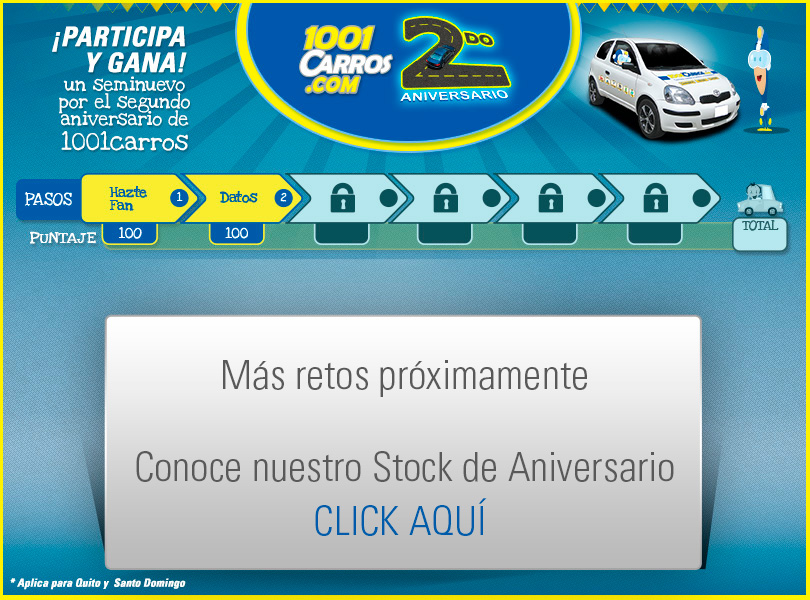
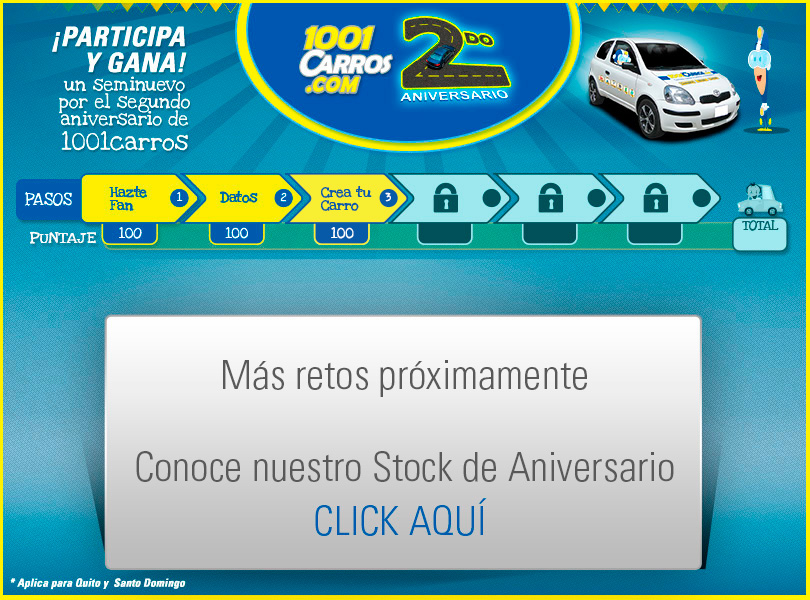
paso3 hecho
ase

diff --git a/armacarro.php b/armacarro.php
@@ -1,0 +1,86 @@
+<?php
+
+echo '
+<div style="width:810px; height:600px; background:url(bg-carro-sube.jpg) no-repeat top center">
+	<div class="puntos">'.$puntos.'</div>
+		  <form action="enviaform2.php" method="post">
+		  	<input name="fbid" type="text" id="fbid" style="display:none" title="fbid" value="'.$fbid.'">
+			<div style="position:absolute; top:367px; left:270px">
+            	<div>Amigos</div>
+              <table>
+            	<tr>
+                	<td>	  
+                      
+                        <input name="am10" type="text" class="input2"  id="am10" placeholder="Nombre" required>
+                      
+              		</td>
+                    <td>
+                      
+                        <input name="am11" type="text" class="input2"  id="am11" placeholder="Apellido" required>
+                      
+                  	</td>
+                    <td>
+                      
+                        <input name="am12" type="text" class="input2"  id="am12" placeholder="Celular" required>
+                      
+              		</td>
+                 </tr>
+                 <tr>
+                	<td>	  
+                      
+                        <input name="am20" type="text" class="input2"  id="am20" placeholder="Nombre" required>
+                      
+              		</td>
+                    <td>
+                      
+                        <input name="am21" type="text" class="input2"  id="am21" placeholder="Apellido" required>
+                      
+                  	</td>
+                    <td>
+                      
+                        <input name="am22" type="text" class="input2"  id="am22" placeholder="Celular" required>
+                      
+              		</td>
+                 </tr>
+                 <tr>
+                	<td>	  
+                      
+                        <input name="am30" type="text" class="input2"  id="am30" placeholder="Nombre" required>
+                      
+              		</td>
+                    <td>
+                      
+                        <input name="am31" type="text" class="input2"  id="am31" placeholder="Apellido" required>
+                      
+                  	</td>
+                    <td>
+                      
+                        <input name="am32" type="text" class="input2"  id="am32" placeholder="Celular" required>
+                      
+              		</td>
+                 </tr>
+                 <tr>
+                	<td>	  
+                      
+                        <input name="am40" type="text" class="input2"  id="am40" placeholder="Nombre" required>
+                      
+              		</td>
+                    <td>
+                      
+                        <input name="am41" type="text" class="input2"  id="am41" placeholder="Apellido" required>
+                      
+                  	</td>
+                    <td>
+                      
+                        <input name="am42" type="text" class="input2"  id="am42" placeholder="Celular" required>
+                      
+              		</td>
+                 </tr>
+              </table>
+			</div>
+			<div style="position:absolute; top:540px; left:680px">
+			  <input name="Enviar" type="submit" id="Enviar" title="Enviar" value="Enviar">
+			</div>
+		  </form>
+		</div>';
+?>

diff --git a/index.php b/index.php
@@ -83,6 +83,14 @@ if ($user) {
 	border-radius: 5px;
 	height: 30px;
 	}
+	.input2 {
+		background: none;
+		border: 1px solid #999;
+		width: 110px;
+		border-radius: 5px;
+		height: 30px;
+		margin: 2px 0px;
+	}
 	label {
 		font-family: "Gill Sans", "Gill Sans MT", "Myriad Pro", "DejaVu Sans Condensed", Helvetica, Arial, sans-serif;
 		color: #4b4b4b;
@@ -230,13 +238,19 @@ if ($user) {
 	}	
 	
 	if($aprobados == 2){
+		include "armacarro.php";
+	}
+	
+	if($aprobados == 3){
 		echo '<a href="http://www.1001carros.com/index.php/catalogsearch/advanced/result/?marca[]=todos&marca[]=62&marca[]=61&marca[]=60&marca[]=55&marca[]=53&marca[]=87&marca[]=88&marca[]=92&marca[]=93&marca[]=3562&marca[]=98&marca[]=100&marca[]=101&marca[]=104&marca[]=105&marca[]=106&marca[]=77&marca[]=78&marca[]=81&marca[]=83&marca[]=85&marca[]=86&marca[]=72&marca[]=75&year_rango1[]=&year_rango2[]=" target="_top"><div style="width:810px; height:600px; background:url(proximo.jpg) no-repeat top center">
 				<div class="puntos">'.$puntos.'</div>
 				</div></a>';
 	}
 	
-	if($aprobados == 3){
-		echo 'cuarto reto';	
+	if($aprobados == 4){
+		echo '<a href="http://www.1001carros.com/index.php/catalogsearch/advanced/result/?marca[]=todos&marca[]=62&marca[]=61&marca[]=60&marca[]=55&marca[]=53&marca[]=87&marca[]=88&marca[]=92&marca[]=93&marca[]=3562&marca[]=98&marca[]=100&marca[]=101&marca[]=104&marca[]=105&marca[]=106&marca[]=77&marca[]=78&marca[]=81&marca[]=83&marca[]=85&marca[]=86&marca[]=72&marca[]=75&year_rango1[]=&year_rango2[]=" target="_top"><div style="width:810px; height:600px; background:url(proximo.jpg) no-repeat top center">
+				<div class="puntos">'.$puntos.'</div>
+				</div></a>';
 	}
 	
 	?>

diff --git a/enviaform2.php b/enviaform2.php
@@ -1,0 +1,45 @@
+<?php
+	$databasehost = "localhost";
+	$databasename = "eadvert1_1001aniversario";
+	$databaseusername ="eadvert1_1001ani";
+	$databasepassword = "Milunani2014!";
+	
+	$fbid = $_POST['fbid'];
+	$amn1 = $_POST['am10'];
+	$ama1 = $_POST['am11'];
+	$amt1 = $_POST['am12'];
+	$amn2 = $_POST['am20'];
+	$ama2 = $_POST['am21'];
+	$amt2 = $_POST['am22'];
+	$amn3 = $_POST['am30'];
+	$ama3 = $_POST['am31'];
+	$amt3 = $_POST['am32'];
+	$amn4 = $_POST['am40'];
+	$ama4 = $_POST['am41'];
+	$amt4 = $_POST['am42'];
+	
+	$fecha = date("D, d M Y");
+		
+	$link = mysql_connect($databasehost, $databaseusername, $databasepassword ) or die("Could not connect : " . mysql_error()); 
+	mysql_select_db($databasename) or die("Could not select database"); 
+	
+	$query1 = "INSERT INTO amigos VALUES ('".$fbid."','".$amn1."','".$ama1."','".$amt1."','".$amn2."','".$ama2."','".$amt2."','".$amn3."','".$ama3."','".$amt3."','".$amn4."','".$ama4."','".$amt4."','".$fecha."')";
+	mysql_query($query1);
+	$query3 = "INSERT INTO puntos VALUES ('".$fbid."','100','1','".$fecha."')";
+	mysql_query($query3);
+	
+	//echo json_encode($_POST);
+	
+	echo '<html>
+	<head>
+	<script>
+	function load()
+	{
+	top.location.href ="https://www.facebook.com/1001carros/app_173715872813876";
+	}
+	</script>
+	</head>
+	<body onload="load()">
+	</body>
+	</html>';
+?>
